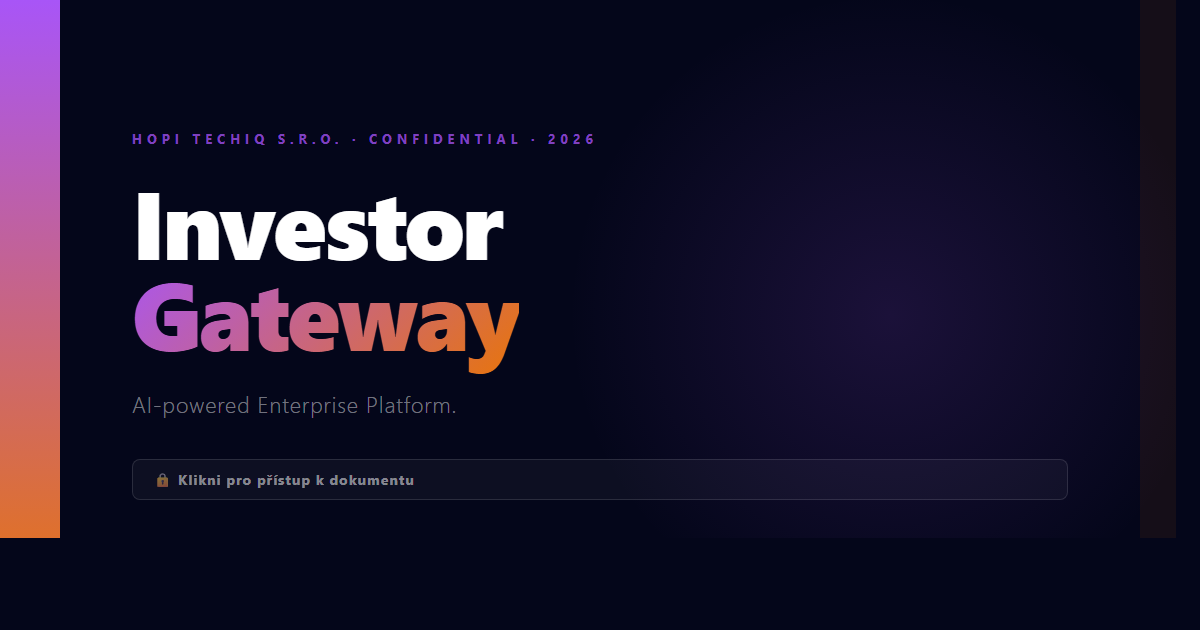
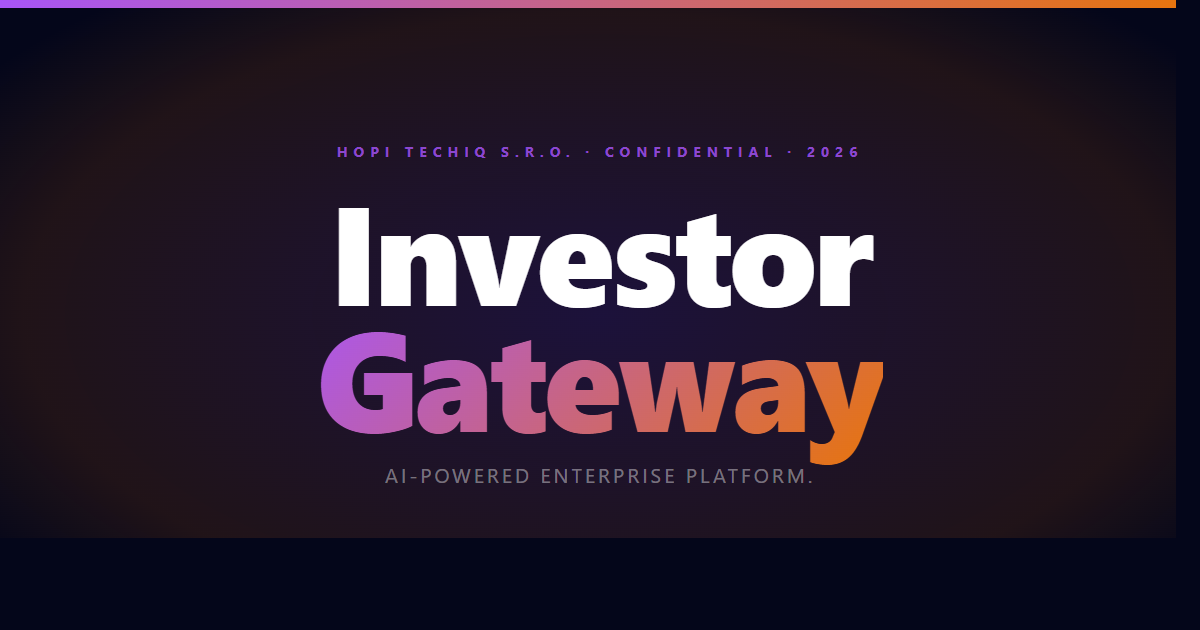
OG images redesign — centered layout, bold headlines, all 3 pages distinct
- og-image-ceo.png: centered "Business Vision" orange (#E8750A), top/bottom bars
- investor-og.png: centered "Business Case" violet (#A855F7), top/bottom bars
- investor-entry-og.png: centered "Investor Gateway" gradient violet→orange bars
- CEO_BRIEF: og:image path fixed (v7.22), og:url added, ?v=4
- INVESTOR_BRIEF: og:url added, ?v=4
- INVESTOR_ENTRY: ?v=2

diff --git a/v7.22/HOPI_AppIQ_WebPage/Development/og-image-entry.html b/v7.22/HOPI_AppIQ_WebPage/Development/og-image-entry.html
@@ -8,66 +8,41 @@ html,body{width:1200px;height:630px;overflow:hidden;}
 body{
   font-family:'Segoe UI',Arial,sans-serif;
   background:#04061A;
-  display:flex;align-items:stretch;
-  position:relative;overflow:hidden;
+  display:flex;flex-direction:column;align-items:center;justify-content:center;
+  position:relative;overflow:hidden;text-align:center;
 }
-.left{
-  width:60px;background:linear-gradient(to bottom,#A855F7,#E8750A);flex-shrink:0;
+.bg{
+  position:absolute;inset:0;
+  background:radial-gradient(ellipse 80% 80% at 50% 50%, rgba(168,85,247,.15) 0%, rgba(232,117,10,.12) 60%, transparent 80%);
 }
-.content{
-  flex:1;display:flex;flex-direction:column;justify-content:center;
-  padding:64px 72px;position:relative;z-index:2;
-}
-.bg-glow{
-  position:absolute;
-  width:700px;height:700px;border-radius:50%;
-  background:radial-gradient(circle,rgba(168,85,247,.14) 0%,transparent 65%);
-  right:-100px;top:50%;transform:translateY(-50%);
-  pointer-events:none;
-}
-.label{
-  font-size:13px;font-weight:700;letter-spacing:5px;text-transform:uppercase;
-  color:rgba(168,85,247,.75);margin-bottom:28px;
+.top-bar{position:absolute;top:0;left:0;right:0;height:8px;background:linear-gradient(to right,#A855F7,#E8750A);}
+.bottom-bar{position:absolute;bottom:0;left:0;right:0;height:8px;background:linear-gradient(to right,#A855F7,#E8750A);}
+.tag{
+  font-size:14px;font-weight:700;letter-spacing:6px;text-transform:uppercase;
+  color:rgba(168,85,247,.8);margin-bottom:24px;position:relative;z-index:2;
 }
 .headline{
-  font-size:96px;font-weight:900;line-height:.95;letter-spacing:-3px;
-  color:#fff;margin-bottom:32px;
+  font-size:140px;font-weight:900;line-height:.9;letter-spacing:-4px;
+  color:#fff;margin-bottom:24px;position:relative;z-index:2;
 }
-.headline span{
+.headline em{
   color:transparent;
   background:linear-gradient(135deg,#A855F7,#E8750A);
   -webkit-background-clip:text;background-clip:text;
+  font-style:normal;
 }
-.tagline{
-  font-size:22px;color:rgba(255,255,255,.45);font-weight:300;
-  letter-spacing:1px;margin-bottom:40px;
+.sub{
+  font-size:20px;color:rgba(255,255,255,.4);font-weight:400;
+  letter-spacing:3px;text-transform:uppercase;position:relative;z-index:2;
 }
-.badge{
-  display:inline-flex;align-items:center;gap:10px;
-  background:rgba(255,255,255,.04);border:1px solid rgba(255,255,255,.12);
-  border-radius:8px;padding:10px 20px;
-}
-.badge-text{font-size:14px;font-weight:700;letter-spacing:1px;color:rgba(255,255,255,.5);}
-.right-accent{
-  width:60px;background:rgba(232,117,10,.08);flex-shrink:0;
-  display:flex;flex-direction:column;justify-content:flex-end;padding-bottom:28px;align-items:center;
-}
-.ver{font-size:10px;font-weight:700;color:rgba(255,255,255,.15);letter-spacing:2px;writing-mode:vertical-rl;transform:rotate(180deg);}
 </style>
 </head>
 <body>
-<div class="left"></div>
-<div class="content">
-  <div class="bg-glow"></div>
-  <div class="label">HOPI TechIQ s.r.o. · Confidential · 2026</div>
-  <div class="headline">Investor<br><span>Gateway</span></div>
-  <div class="tagline">AI-powered Enterprise Platform.</div>
-  <div class="badge">
-    <span class="badge-text">🔒 Klikni pro přístup k dokumentu</span>
-  </div>
-</div>
-<div class="right-accent">
-  <div class="ver">ENTRY</div>
-</div>
+<div class="bg"></div>
+<div class="top-bar"></div>
+<div class="tag">HOPI TechIQ s.r.o. · Confidential · 2026</div>
+<div class="headline">Investor<br><em>Gateway</em></div>
+<div class="sub">AI-powered Enterprise Platform.</div>
+<div class="bottom-bar"></div>
 </body>
 </html>

diff --git a/v7.22/HOPI_AppIQ_WebPage/Development/og-image-investor.html b/v7.22/HOPI_AppIQ_WebPage/Development/og-image-investor.html
@@ -8,62 +8,36 @@ html,body{width:1200px;height:630px;overflow:hidden;}
 body{
   font-family:'Segoe UI',Arial,sans-serif;
   background:#04061A;
-  display:flex;align-items:stretch;
-  position:relative;overflow:hidden;
+  display:flex;flex-direction:column;align-items:center;justify-content:center;
+  position:relative;overflow:hidden;text-align:center;
 }
-.left{
-  width:60px;background:#A855F7;flex-shrink:0;
+.bg{
+  position:absolute;inset:0;
+  background:radial-gradient(ellipse 80% 80% at 50% 50%, rgba(168,85,247,.22) 0%, transparent 70%);
 }
-.content{
-  flex:1;display:flex;flex-direction:column;justify-content:center;
-  padding:64px 72px;position:relative;z-index:2;
-}
-.bg-glow{
-  position:absolute;
-  width:700px;height:700px;border-radius:50%;
-  background:radial-gradient(circle,rgba(168,85,247,.18) 0%,transparent 65%);
-  right:-100px;top:50%;transform:translateY(-50%);
-  pointer-events:none;
-}
-.label{
-  font-size:13px;font-weight:700;letter-spacing:5px;text-transform:uppercase;
-  color:rgba(168,85,247,.75);margin-bottom:28px;
+.top-bar{position:absolute;top:0;left:0;right:0;height:8px;background:#A855F7;}
+.bottom-bar{position:absolute;bottom:0;left:0;right:0;height:8px;background:#A855F7;}
+.tag{
+  font-size:14px;font-weight:700;letter-spacing:6px;text-transform:uppercase;
+  color:rgba(168,85,247,.8);margin-bottom:24px;position:relative;z-index:2;
 }
 .headline{
-  font-size:96px;font-weight:900;line-height:.95;letter-spacing:-3px;
-  color:#fff;margin-bottom:32px;
+  font-size:140px;font-weight:900;line-height:.9;letter-spacing:-4px;
+  color:#fff;margin-bottom:24px;position:relative;z-index:2;
 }
-.headline span{color:#A855F7;}
-.tagline{
-  font-size:22px;color:rgba(255,255,255,.45);font-weight:300;
-  letter-spacing:1px;margin-bottom:40px;
+.headline em{color:#A855F7;font-style:normal;}
+.sub{
+  font-size:20px;color:rgba(255,255,255,.4);font-weight:400;
+  letter-spacing:3px;text-transform:uppercase;position:relative;z-index:2;
 }
-.badge{
-  display:inline-flex;align-items:center;gap:10px;
-  background:rgba(168,85,247,.12);border:1px solid rgba(168,85,247,.35);
-  border-radius:8px;padding:10px 20px;
-}
-.badge-text{font-size:14px;font-weight:700;letter-spacing:1px;color:rgba(192,132,252,.9);}
-.right-accent{
-  width:60px;background:rgba(168,85,247,.08);flex-shrink:0;
-  display:flex;flex-direction:column;justify-content:flex-end;padding-bottom:28px;align-items:center;
-}
-.ver{font-size:10px;font-weight:700;color:rgba(255,255,255,.15);letter-spacing:2px;writing-mode:vertical-rl;transform:rotate(180deg);}
 </style>
 </head>
 <body>
-<div class="left"></div>
-<div class="content">
-  <div class="bg-glow"></div>
-  <div class="label">HOPI TechIQ s.r.o. · Confidential · 2026</div>
-  <div class="headline">Business<br><span>Case</span></div>
-  <div class="tagline">8 týdnů. ~$1k. Live deployment. Phase 1 Active.</div>
-  <div class="badge">
-    <span class="badge-text">🔒 Investment Readiness · CEE → WorldWide</span>
-  </div>
-</div>
-<div class="right-accent">
-  <div class="ver">INVESTOR BRIEF</div>
-</div>
+<div class="bg"></div>
+<div class="top-bar"></div>
+<div class="tag">HOPI TechIQ s.r.o. · Investor Brief · 2026</div>
+<div class="headline">Business<br><em>Case</em></div>
+<div class="sub">8 weeks · ~$1k · Live deployment.</div>
+<div class="bottom-bar"></div>
 </body>
 </html>

diff --git a/v7.22/HOPI_AppIQ_WebPage/Development/og-image-ceo.html b/v7.22/HOPI_AppIQ_WebPage/Development/og-image-ceo.html
@@ -8,62 +8,36 @@ html,body{width:1200px;height:630px;overflow:hidden;}
 body{
   font-family:'Segoe UI',Arial,sans-serif;
   background:#04061A;
-  display:flex;align-items:stretch;
-  position:relative;overflow:hidden;
+  display:flex;flex-direction:column;align-items:center;justify-content:center;
+  position:relative;overflow:hidden;text-align:center;
 }
-.left{
-  width:60px;background:#E8750A;flex-shrink:0;
+.bg{
+  position:absolute;inset:0;
+  background:radial-gradient(ellipse 80% 80% at 50% 50%, rgba(232,117,10,.22) 0%, transparent 70%);
 }
-.content{
-  flex:1;display:flex;flex-direction:column;justify-content:center;
-  padding:64px 72px;position:relative;z-index:2;
-}
-.bg-glow{
-  position:absolute;
-  width:700px;height:700px;border-radius:50%;
-  background:radial-gradient(circle,rgba(232,117,10,.18) 0%,transparent 65%);
-  right:-100px;top:50%;transform:translateY(-50%);
-  pointer-events:none;
-}
-.label{
-  font-size:13px;font-weight:700;letter-spacing:5px;text-transform:uppercase;
-  color:rgba(232,117,10,.75);margin-bottom:28px;
+.top-bar{position:absolute;top:0;left:0;right:0;height:8px;background:#E8750A;}
+.bottom-bar{position:absolute;bottom:0;left:0;right:0;height:8px;background:#E8750A;}
+.tag{
+  font-size:14px;font-weight:700;letter-spacing:6px;text-transform:uppercase;
+  color:rgba(232,117,10,.8);margin-bottom:24px;position:relative;z-index:2;
 }
 .headline{
-  font-size:96px;font-weight:900;line-height:.95;letter-spacing:-3px;
-  color:#fff;margin-bottom:32px;
+  font-size:140px;font-weight:900;line-height:.9;letter-spacing:-4px;
+  color:#fff;margin-bottom:24px;position:relative;z-index:2;
 }
-.headline span{color:#E8750A;}
-.tagline{
-  font-size:22px;color:rgba(255,255,255,.45);font-weight:300;
-  letter-spacing:1px;margin-bottom:40px;
+.headline em{color:#E8750A;font-style:normal;}
+.sub{
+  font-size:20px;color:rgba(255,255,255,.4);font-weight:400;
+  letter-spacing:3px;text-transform:uppercase;position:relative;z-index:2;
 }
-.badge{
-  display:inline-flex;align-items:center;gap:10px;
-  background:rgba(232,117,10,.12);border:1px solid rgba(232,117,10,.35);
-  border-radius:8px;padding:10px 20px;
-}
-.badge-text{font-size:14px;font-weight:700;letter-spacing:1px;color:rgba(232,117,10,.9);}
-.right-accent{
-  width:60px;background:rgba(232,117,10,.08);flex-shrink:0;
-  display:flex;flex-direction:column;justify-content:flex-end;padding-bottom:28px;align-items:center;
-}
-.ver{font-size:10px;font-weight:700;color:rgba(255,255,255,.15);letter-spacing:2px;writing-mode:vertical-rl;transform:rotate(180deg);}
 </style>
 </head>
 <body>
-<div class="left"></div>
-<div class="content">
-  <div class="bg-glow"></div>
-  <div class="label">HOPI AppIQ · David Gogela</div>
-  <div class="headline">Business<br><span>Vision</span></div>
-  <div class="tagline">Built for the universe. Starting with you.</div>
-  <div class="badge">
-    <span class="badge-text">🚀 HOPI TechIQ s.r.o. · 2026</span>
-  </div>
-</div>
-<div class="right-accent">
-  <div class="ver">CEO BRIEF</div>
-</div>
+<div class="bg"></div>
+<div class="top-bar"></div>
+<div class="tag">HOPI AppIQ · David Gogela · 2026</div>
+<div class="headline">Business<br><em>Vision</em></div>
+<div class="sub">Built for the universe. Starting with you.</div>
+<div class="bottom-bar"></div>
 </body>
 </html>

diff --git a/v7.22/HOPI_AppIQ_WebPage/Development/CEO_BRIEF.html b/v7.22/HOPI_AppIQ_WebPage/Development/CEO_BRIEF.html
@@ -6,14 +6,14 @@
 <title>AppIQ Vision · David Gogela · HOPI</title>
 <meta property="og:title"       content="AppIQ — Built for the universe. Starting with you.">
 <meta property="og:description" content="AI platforma nové generace. Osobní vizitka Davida Gogely pro vedení HOPI Group.">
-<meta property="og:image"       content="https://h-gr-fico.github.io/appiq/og-image-ceo.png?v=3">
+<meta property="og:image"       content="https://h-gr-fico.github.io/appiq/v7.22/HOPI_AppIQ_WebPage/Development/og-image-ceo.png?v=4">
 <meta property="og:image:width" content="1200">
 <meta property="og:image:height" content="630">
 <meta property="og:image:type"  content="image/png">
-<meta property="og:url"         content="https://h-gr-fico.github.io/appiq/v7.22/HOPI_AppIQ_WebPage/Development/CEO_BRIEF.html">
+<meta property="og:url"         content="https://h-gr-fico.github.io/appiq/v7.22/HOPI_AppIQ_WebPage/Development/CEO_BRIEF.html?v=4">
 <meta property="og:type"        content="website">
 <meta name="twitter:card"       content="summary_large_image">
-<meta name="twitter:image"      content="https://h-gr-fico.github.io/appiq/og-image-ceo.png?v=3">
+<meta name="twitter:image"      content="https://h-gr-fico.github.io/appiq/v7.22/HOPI_AppIQ_WebPage/Development/og-image-ceo.png?v=4">
 <style>
 /* ═══ RESET & BASE ═══════════════════════════════════════════════════ */
 *{box-sizing:border-box;margin:0;padding:0;}

diff --git a/v7.22/HOPI_AppIQ_WebPage/Development/INVESTOR_BRIEF.html b/v7.22/HOPI_AppIQ_WebPage/Development/INVESTOR_BRIEF.html
@@ -7,12 +7,13 @@
 <meta property="og:title"       content="HOPI TechIQ s.r.o. — Investment Readiness 2026">
 <meta property="og:description" content="AI-powered Enterprise Platform. 8 týdnů do live deploymentu. ~$1k náklady. Phase 1 Active. CEE → WorldWide. Anthropic partnership.">
 <meta property="og:type"        content="website">
-<meta property="og:image"       content="https://h-gr-fico.github.io/appiq/v7.22/HOPI_AppIQ_WebPage/Development/investor-og.png?v=3">
+<meta property="og:image"       content="https://h-gr-fico.github.io/appiq/v7.22/HOPI_AppIQ_WebPage/Development/investor-og.png?v=4">
 <meta property="og:image:width" content="1200">
 <meta property="og:image:height" content="630">
 <meta property="og:image:type"  content="image/png">
+<meta property="og:url"         content="https://h-gr-fico.github.io/appiq/v7.22/HOPI_AppIQ_WebPage/Development/INVESTOR_BRIEF.html?v=4">
 <meta name="twitter:card"       content="summary_large_image">
-<meta name="twitter:image"      content="https://h-gr-fico.github.io/appiq/v7.22/HOPI_AppIQ_WebPage/Development/investor-og.png?v=3">
+<meta name="twitter:image"      content="https://h-gr-fico.github.io/appiq/v7.22/HOPI_AppIQ_WebPage/Development/investor-og.png?v=4">
 <style>
 /* ═══ RESET & BASE ═══════════════════════════════════════════════════════ */
 *{box-sizing:border-box;margin:0;padding:0;}

diff --git a/v7.22/HOPI_AppIQ_WebPage/Development/INVESTOR_ENTRY.html b/v7.22/HOPI_AppIQ_WebPage/Development/INVESTOR_ENTRY.html
@@ -9,13 +9,13 @@
   <meta property="og:title"       content="HOPI TechIQ s.r.o. — Investor Brief 2026">
   <meta property="og:description" content="AI-powered Enterprise Platform. 8 týdnů do live deploymentu. ~$1k náklady. 109 git commits. Phase 1 Active. CEE → WorldWide.">
   <meta property="og:type"        content="website">
-  <meta property="og:image"       content="https://h-gr-fico.github.io/appiq/v7.22/HOPI_AppIQ_WebPage/Development/investor-entry-og.png?v=1">
+  <meta property="og:image"       content="https://h-gr-fico.github.io/appiq/v7.22/HOPI_AppIQ_WebPage/Development/investor-entry-og.png?v=2">
   <meta property="og:image:width" content="1200">
   <meta property="og:image:height" content="630">
   <meta property="og:image:type"  content="image/png">
   <meta property="og:url"         content="https://h-gr-fico.github.io/appiq/v7.22/HOPI_AppIQ_WebPage/Development/INVESTOR_ENTRY.html">
   <meta name="twitter:card"       content="summary_large_image">
-  <meta name="twitter:image"      content="https://h-gr-fico.github.io/appiq/v7.22/HOPI_AppIQ_WebPage/Development/investor-entry-og.png?v=1">
+  <meta name="twitter:image"      content="https://h-gr-fico.github.io/appiq/v7.22/HOPI_AppIQ_WebPage/Development/investor-entry-og.png?v=2">
 
   <style>
     *, *::before, *::after { box-sizing: border-box; margin: 0; padding: 0; }
